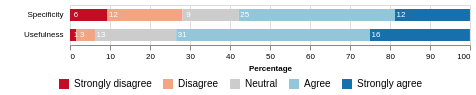
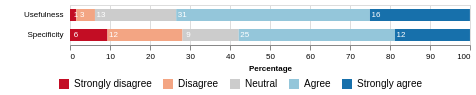
figure updated

diff --git a/visualization/visualization_specificity_usefulness.py b/visualization/visualization_specificity_usefulness.py
@@ -46,7 +46,7 @@ def main(args):
 
     chart = alt.Chart(source).mark_bar(size=12).encode(
         x=alt.X('percentage:Q', title='Percentage'),
-        y=alt.Y('question:N', axis=y_axis),
+        y=alt.Y('question:N', axis=y_axis, sort=["Usefulness","Specificity"]),
         color=alt.Color(
             'type:N',
             legend=alt.Legend(orient='bottom', title='', padding=-12),
@@ -60,7 +60,7 @@ def main(args):
 
     text = alt.Chart(source).mark_text(dx=6, color='white').encode(
         x=alt.X('Percentage start:Q', title=''),
-        y=alt.Y('question:N'),
+        y=alt.Y('question:N', sort=["Usefulness","Specificity"] ),
         detail='type:N',
         text=alt.Text('value:Q', format='.0f'),
     )
